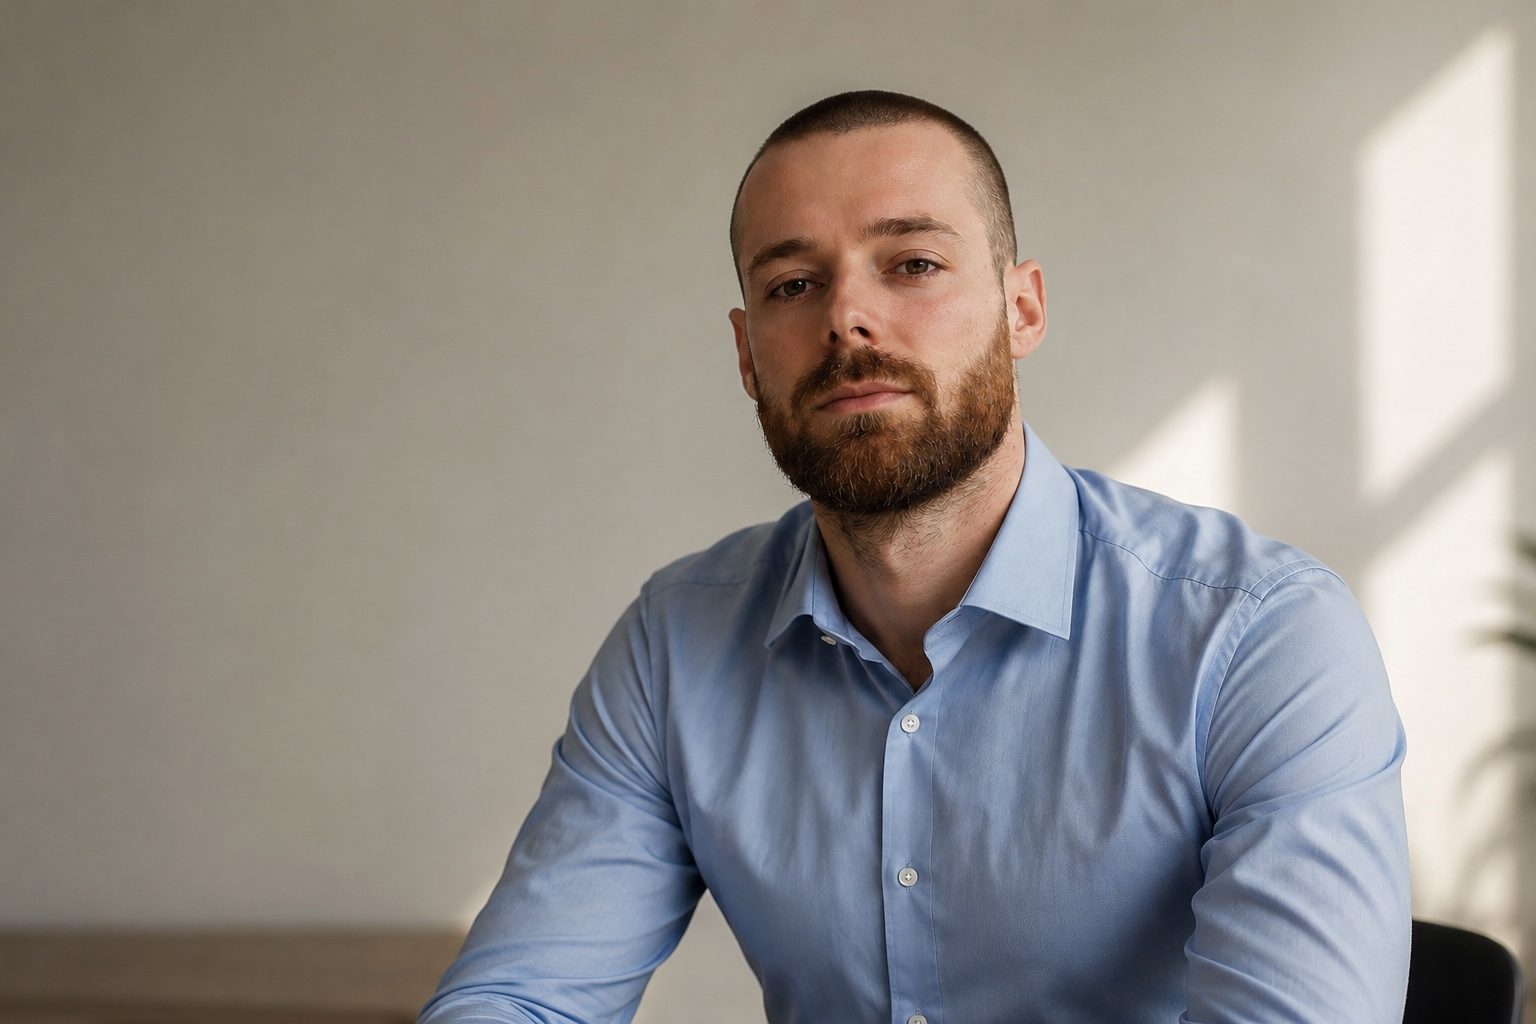
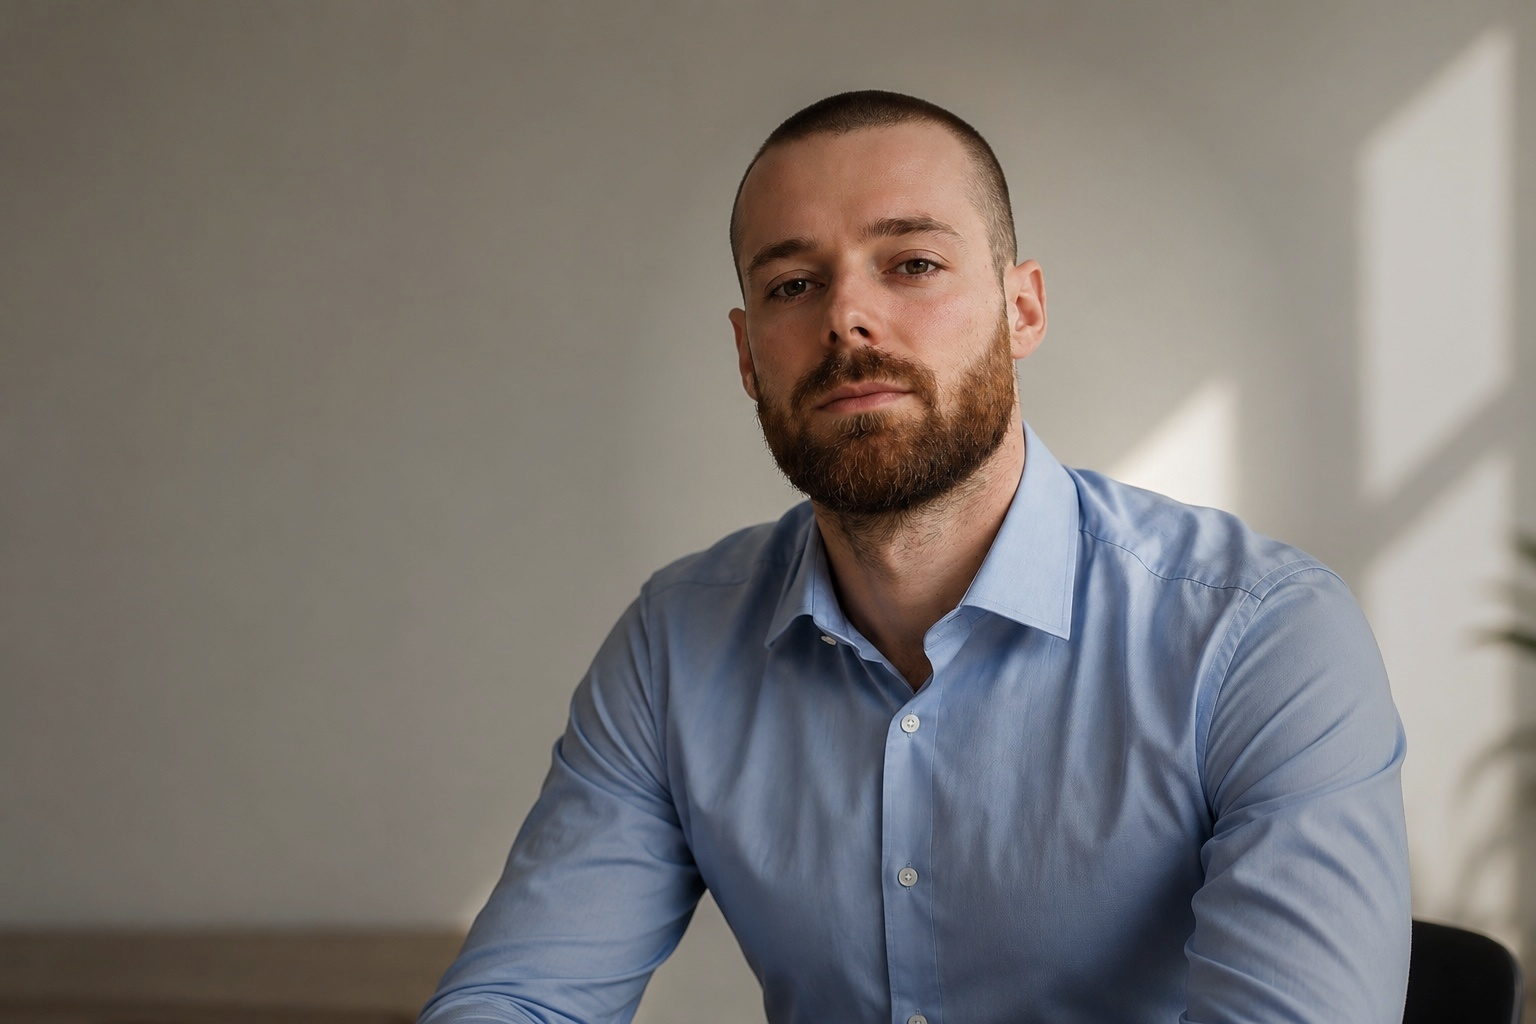
Add files via upload

diff --git a/index.html b/index.html
@@ -1,42 +1,135 @@
-
-<!DOCTYPE html>
-<html>
+<!doctype html>
+<html lang="en">
 <head>
-<meta charset="UTF-8">
-<title>Aleksandar Plavsic</title>
-<style>
-body {
-margin:0;
-font-family: Arial, sans-serif;
-background:#f3eee6;
-}
-.hero {
-display:flex;
-height:100vh;
-}
-.hero-left {
-flex:1;
-background:url('hero-photo-updated.jpg') center center/cover no-repeat;
-}
-.hero-right {
-flex:1;
-background:#243124;
-color:#f5efe6;
-display:flex;
-align-items:center;
-padding:80px;
-}
-</style>
+  <meta charset="utf-8" />
+  <meta name="viewport" content="width=device-width, initial-scale=1" />
+  <title>Aleksandar Plavsic | Psychologist for Stress, Wellbeing &amp; Workplace Support</title>
+  <meta name="description" content="Psychology-informed online support for stress, emotional clarity, decision-making, wellbeing, and workplace challenges for individuals and organizations." />
+  <link rel="preconnect" href="https://fonts.googleapis.com">
+  <link rel="preconnect" href="https://fonts.gstatic.com" crossorigin>
+  <link href="https://fonts.googleapis.com/css2?family=Cormorant+Garamond:wght@400;500;600&family=Inter:wght@400;500;600&display=swap" rel="stylesheet">
+  <link rel="stylesheet" href="styles.css" />
+  <!-- SEO enhancements -->
+  <link rel="canonical" href="https://aleksandarplavsic.com/index.html" />
+  <meta name="robots" content="index, follow, max-image-preview:large" />
+  <meta property="og:type" content="website" />
+  <meta property="og:title" content="Aleksandar Plavsic | Psychologist for Stress, Wellbeing &amp; Workplace Support" />
+  <meta property="og:description" content="Psychology-informed online support for stress, emotional clarity, decision-making, wellbeing, and workplace challenges for individuals and organizations." />
+  <meta property="og:url" content="https://aleksandarplavsic.com/index.html" />
+  <meta property="og:image" content="https://aleksandarplavsic.com/assets/home-hero-new.jpg" />
+  <meta name="twitter:card" content="summary_large_image" />
+  <script type="application/ld+json">{"@context":"https://schema.org","@type":"WebPage","name":"Aleksandar Plavsic | Psychologist for Stress, Wellbeing & Workplace Support","description":"Psychology-informed online support for stress, emotional clarity, decision-making, wellbeing, and workplace challenges for individuals and organizations.","url":"https://aleksandarplavsic.com/index.html","isPartOf":{"@type":"WebSite","name":"Aleksandar Plavsic","url":"https://aleksandarplavsic.com/"},"about":["psychology","workplace wellbeing","stress","burnout prevention","mental wellbeing"]}</script>
+  <!-- /SEO enhancements -->
 </head>
 <body>
-<div class="hero">
-<div class="hero-left"></div>
-<div class="hero-right">
-<div>
-<h1>For clarity, balance, and meaningful change.</h1>
-<p>Psychological support for individuals and organizations.</p>
-</div>
-</div>
-</div>
+  <main class="site-shell">
+    <header class="header">
+      <a class="brand" href="index.html" aria-label="Aleksandar Plavsic home">
+        <span class="brand-name">Aleksandar Plavsic</span>
+        <span class="brand-role">Psychologist</span>
+      </a>
+      <nav class="nav" aria-label="Main navigation">
+        <a class="active" href="index.html">Home</a>
+        <a href="about.html">About</a>
+        <a href="work-with-me.html">Work With Me</a>
+        <a href="blog.html">Blog</a>
+        <a href="contact.html">Contact</a>
+      </nav>
+      <div class="language-switch" aria-label="Language switcher">
+        <a class="lang-active" href="index.html">EN</a>
+        <a href="index-es.html">ES</a>
+        <a href="index-sr.html">SR</a>
+      </div>
+      <a class="nav-button" href="work-with-me.html">Book a Session <span aria-hidden="true">↗</span></a>
+    </header>
+
+    <section class="hero" id="about">
+      <div class="hero-image" aria-label="Aleksandar Plavsic in a warm professional portrait"></div>
+      <div class="hero-panel">
+        <div class="hero-inner">
+          <img class="hero-mark" src="assets/ap-mark-beige.png" alt="AP psychology logo" />
+          <h1 class="hero-name">Aleksandar Plavsic</h1>
+          <p class="hero-role">Psychologist</p>
+          <div class="small-rule"></div>
+          <h2 class="headline">Understanding today.<br>Better choices tomorrow.</h2>
+
+          <div class="pillars" id="work">
+            <article class="pillar">
+              <div class="icon-circle" aria-hidden="true"><img src="assets/icons/pressure-stress.png" alt="" /></div>
+              <h3>Pressure &amp; Stress</h3>
+              <p>Manage pressure and reduce stress to feel more in control.</p>
+            </article>
+            <article class="pillar">
+              <div class="icon-circle" aria-hidden="true"><img src="assets/icons/emotional-clarity.png" alt="" /></div>
+              <h3>Emotional Clarity</h3>
+              <p>Understand your emotions and gain mental clarity.</p>
+            </article>
+            <article class="pillar">
+              <div class="icon-circle" aria-hidden="true"><img src="assets/icons/decision-making.png" alt="" /></div>
+              <h3>Decision Making</h3>
+              <p>Make confident decisions aligned with what matters.</p>
+            </article>
+            <article class="pillar">
+              <div class="icon-circle" aria-hidden="true"><img src="assets/icons/wellbeing-home-final.png?v=100" alt="" /></div>
+              <h3>Well-being</h3>
+              <p>Build habits that support mental health and daily well-being.</p>
+            </article>
+          </div>
+
+          <a class="primary-button" href="work-with-me.html">Book a Session <span aria-hidden="true">↗</span></a>
+        </div>
+      </div>
+    </section>
+
+    <section class="cards" id="cards">
+      <article class="service-card">
+        <div class="service-icon" aria-hidden="true">
+          <svg viewBox="0 0 64 64"><circle cx="32" cy="20" r="9"/><path d="M16 52c2-13 8-20 16-20s14 7 16 20"/><path d="M32 34v12"/></svg>
+        </div>
+        <div>
+          <h3>For Individuals</h3>
+          <p>Personalized support to help you understand your challenges and create meaningful change.</p>
+        </div>
+      </article>
+      <article class="service-card">
+        <div class="service-icon" aria-hidden="true">
+          <svg viewBox="0 0 64 64"><rect x="13" y="24" width="38" height="27" rx="4"/><path d="M24 24v-7h16v7"/><path d="M13 34h38"/><path d="M28 34v5h8v-5"/></svg>
+        </div>
+        <div>
+          <h3>For Professionals</h3>
+          <p>Build resilience, manage pressure, and improve focus in demanding environments.</p>
+        </div>
+      </article>
+      <article class="service-card" id="companies">
+        <div class="service-icon" aria-hidden="true">
+          <svg viewBox="0 0 64 64"><circle cx="32" cy="22" r="9"/><circle cx="16" cy="29" r="6"/><circle cx="48" cy="29" r="6"/><path d="M17 50c2-10 7-15 15-15s13 5 15 15"/><path d="M5 50c1-7 5-11 11-11"/><path d="M59 50c-1-7-5-11-11-11"/></svg>
+        </div>
+        <div>
+          <h3>For Companies</h3>
+          <p>Support your team’s mental well-being and performance with practical, evidence-based solutions.</p>
+        </div>
+      </article>
+    </section>
+<footer class="footer unified-footer">
+      <div class="footer-main">
+        <div class="footer-slogan"><span class="psi">Ψ</span><span>Science-based.<br>Practical. Human.</span></div>
+        <nav class="footer-nav" aria-label="Footer navigation">
+          <a href="about.html">About</a>
+          <a href="work-with-me.html">Work With Me</a>
+          <a href="blog.html">Blog</a>
+          <a href="contact.html">Contact</a>
+        </nav>
+        <div class="footer-contact footer-contact-icons">
+          <a href="mailto:[email redacted]"><span class="footer-icon" aria-hidden="true"><svg viewBox="0 0 24 24"><rect x="3" y="5" width="18" height="14" rx="2"/><path d="m4 7 8 6 8-6"/></svg></span><span>[email redacted]</span></a>
+          <a href="tel:+34604383935"><span class="footer-icon" aria-hidden="true"><svg viewBox="0 0 24 24"><path d="M22 16.9v3a2 2 0 0 1-2.2 2 19.8 19.8 0 0 1-8.6-3.1 19.4 19.4 0 0 1-6-6A19.8 19.8 0 0 1 2.1 4.2 2 2 0 0 1 4.1 2h3a2 2 0 0 1 2 1.7c.1 1 .4 2 .7 2.9a2 2 0 0 1-.5 2.1L8.1 9.9a16 16 0 0 0 6 6l1.2-1.2a2 2 0 0 1 2.1-.5c.9.3 1.9.6 2.9.7a2 2 0 0 1 1.7 2Z"/></svg></span><span>+34 604 383 935</span></a>
+          <a href="https://www.linkedin.com/in/aleksandarplavsic/" target="_blank" rel="noreferrer"><span class="footer-icon" aria-hidden="true"><svg viewBox="0 0 24 24"><path d="M16 8a6 6 0 0 1 6 6v7h-4v-7a2 2 0 0 0-4 0v7h-4V9h4v2"/><path d="M2 9h4v12H2z"/><circle cx="4" cy="4" r="2"/></svg></span><span>LinkedIn</span></a>
+        </div>
+      </div>
+      <div class="footer-bottom">
+        <p>© 2026 Aleksandar Plavsic. All rights reserved.</p>
+        <p><a href="faq.html">FAQ</a> <span>|</span> <a href="terms.html">Terms &amp; Conditions</a> <span>|</span> <a href="privacy.html">Privacy &amp; GDPR Policy</a> <span>|</span> <a href="cookies.html">Cookie Policy</a></p>
+      </div>
+    </footer>
+  </main>
 </body>
 </html>